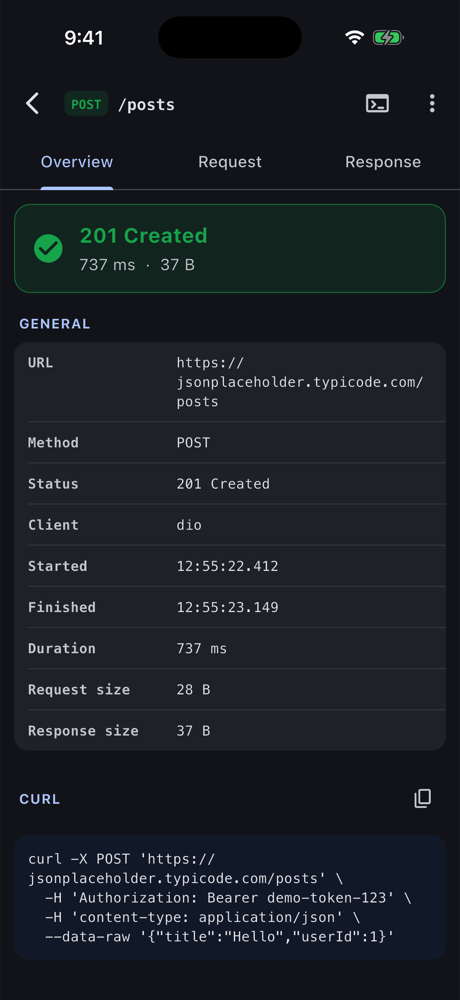
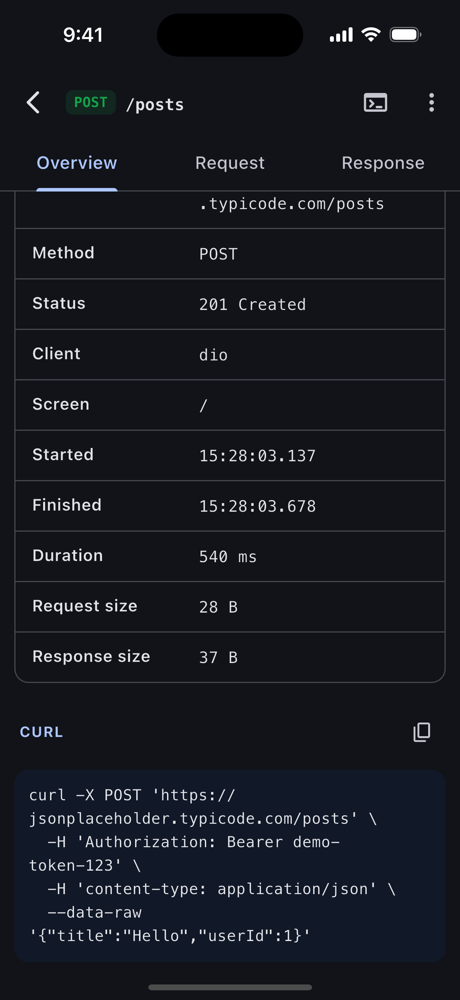
Retake the screenshots and add an animated demo (0.5.1)
The screenshots predated the Postman-style layout from 0.3.1. Retake
them on an iPhone 15 Pro, add two of the Performance tab, and add a GIF
of inspect mode to the README and the pub.dev gallery.

diff --git a/README.md b/README.md
@@ -15,11 +15,17 @@ your browser: tap the round button to open the inspector, or long-press it and
 touch a name or a price.
 
 <p>
+  <img src="https://raw.githubusercontent.com/IslamAbdElhady/trackly_inspector/main/screenshots/demo.gif" width="300" alt="Inspect mode: long-press the button, touch a price, and see the request it came from, with the field highlighted">
+</p>
+
+<p>
   <img src="https://raw.githubusercontent.com/IslamAbdElhady/trackly_inspector/main/screenshots/network.png" width="200" alt="Request list">
   <img src="https://raw.githubusercontent.com/IslamAbdElhady/trackly_inspector/main/screenshots/inspect.png" width="200" alt="Inspect mode: the request a price came from">
   <img src="https://raw.githubusercontent.com/IslamAbdElhady/trackly_inspector/main/screenshots/source.png" width="200" alt="The matching field, highlighted in the response">
   <img src="https://raw.githubusercontent.com/IslamAbdElhady/trackly_inspector/main/screenshots/details.png" width="200" alt="Request details with cURL">
   <img src="https://raw.githubusercontent.com/IslamAbdElhady/trackly_inspector/main/screenshots/logs.png" width="200" alt="Logs">
+  <img src="https://raw.githubusercontent.com/IslamAbdElhady/trackly_inspector/main/screenshots/performance.png" width="200" alt="Each screen's load time and slow frames">
+  <img src="https://raw.githubusercontent.com/IslamAbdElhady/trackly_inspector/main/screenshots/screen.png" width="200" alt="A screen's requests as a waterfall, and its frames">
 </p>
 
 ## Features

diff --git a/CHANGELOG.md b/CHANGELOG.md
@@ -1,3 +1,8 @@
+## 0.5.1
+
+* New screenshots of the current design, including the Performance tab, and
+  an animated demo of inspect mode.
+
 ## 0.5.0
 
 * A **Performance** tab, listing each screen the app showed with:
